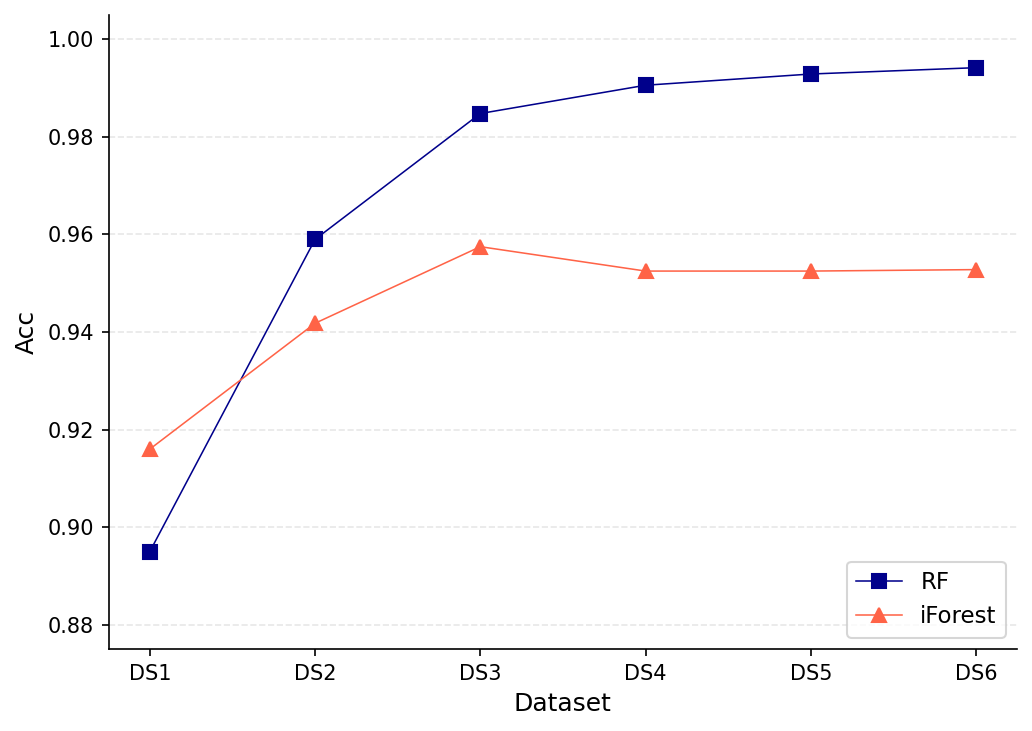
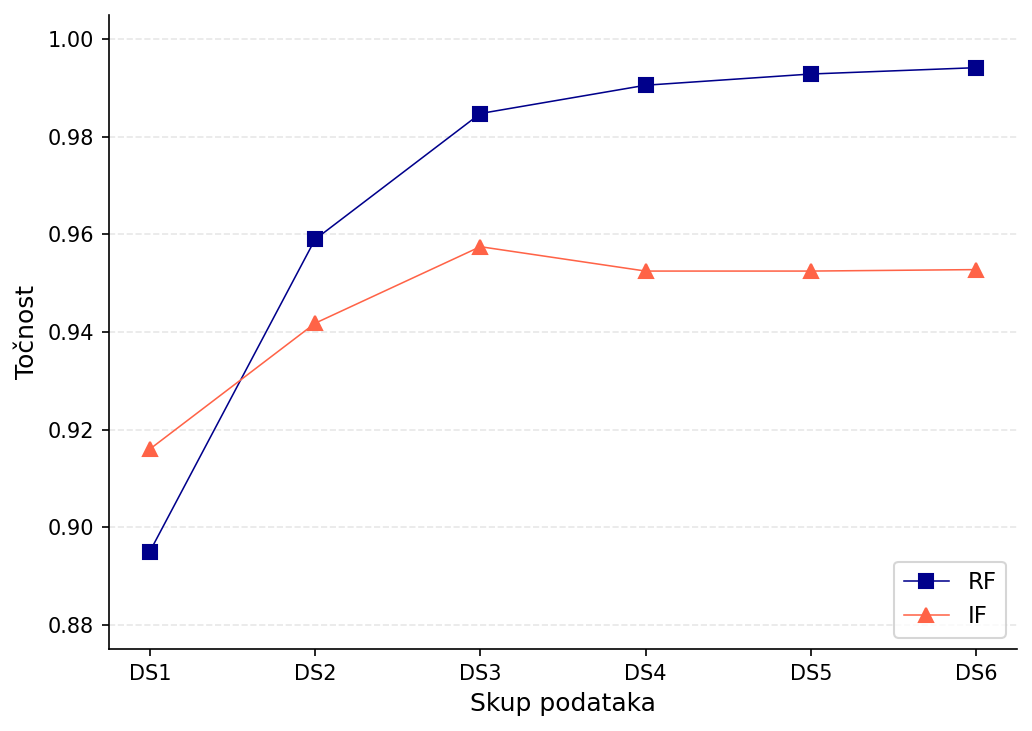
Updated plot comparison script: updated plot directory path and translated y-axis labels to Croatian

Changed region(s): [[0.8372, 0.7524, 0.9612, 0.8728], [0.4651, 0.933, 0.6202, 0.9932], [0.0, 0.3912, 0.031, 0.5116]]

diff --git a/ml/plots/plot_comparison.py b/ml/plots/plot_comparison.py
@@ -3,7 +3,7 @@ matplotlib.use("Agg")
 import matplotlib.pyplot as plt
 import os
 
-PLOTS_DIR = os.path.join(os.path.dirname(__file__), "plots")
+PLOTS_DIR = os.path.dirname(__file__)
 
 datasets = ["DS1", "DS2", "DS3", "DS4", "DS5", "DS6"]
 
@@ -24,7 +24,7 @@ if_ = {
 }
 
 metrics = ["Accuracy", "Precision", "Recall", "F1", "ROC-AUC"]
-ylabels = ["Acc", "Precision", "Recall", "F1", "ROC-AUC"]
+ylabels = ["Točnost", "Preciznost", "Odaziv", "F1", "ROC-AUC"]
 
 plt.rcParams.update({
     "font.family": "sans-serif",
@@ -38,12 +38,12 @@ for metric, ylabel in zip(metrics, ylabels):
     ax.plot(datasets, rf[metric], color="darkblue", linewidth=0.75,
             marker="s", markersize=7, label="RF")
     ax.plot(datasets, if_[metric], color="tomato", linewidth=0.75,
-            marker="^", markersize=7, label="iForest")
+            marker="^", markersize=7, label="IF")
 
     y_min = min(min(rf[metric]), min(if_[metric]))
     ax.set_ylim(max(0.75, y_min - 0.02), 1.005)
 
-    ax.set_xlabel("Dataset", fontsize=12)
+    ax.set_xlabel("Skup podataka", fontsize=12)
     ax.set_ylabel(ylabel, fontsize=12)
     ax.legend(fontsize=11, frameon=True, loc="lower right")
     ax.grid(axis="y", alpha=0.3, linestyle="--")
